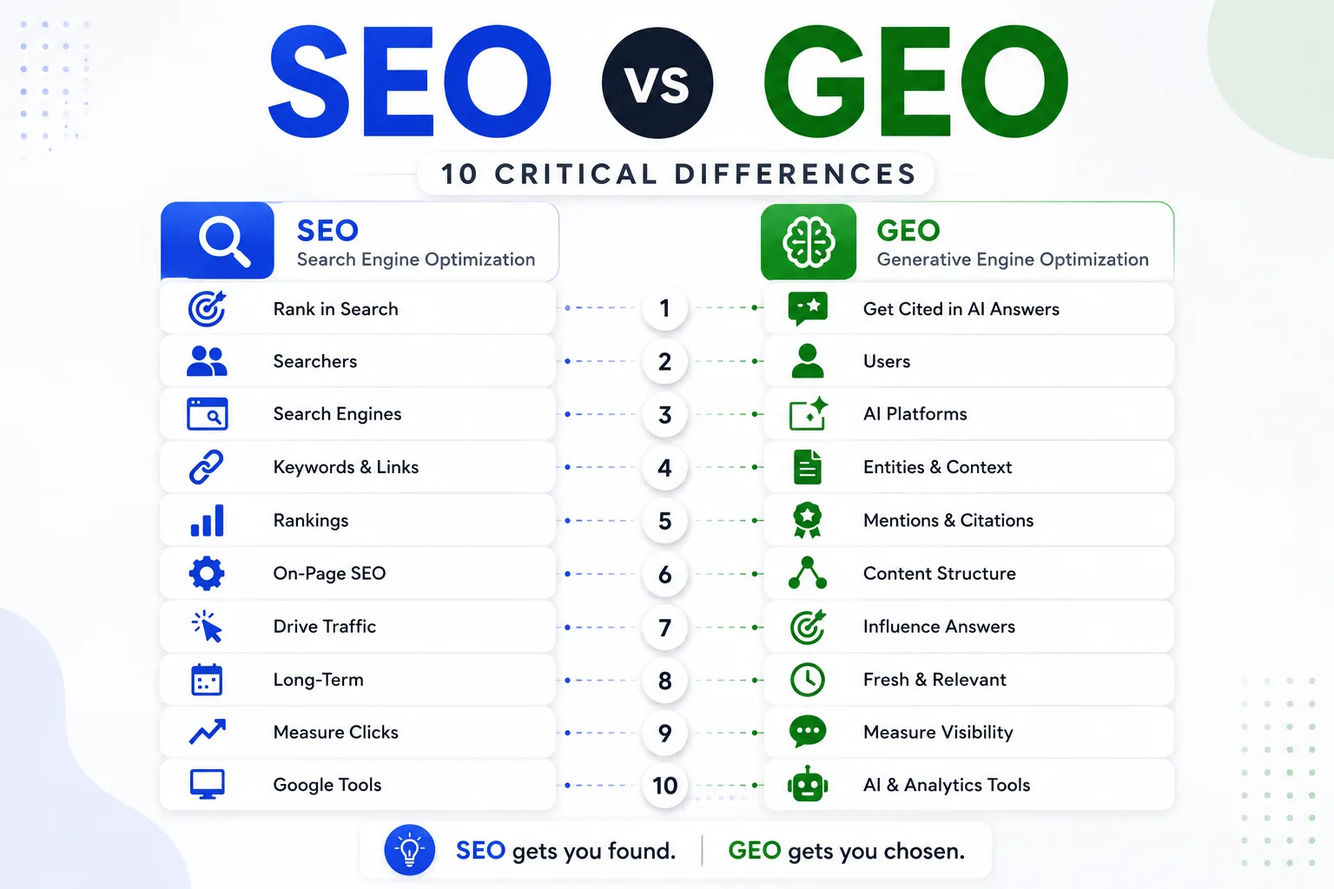
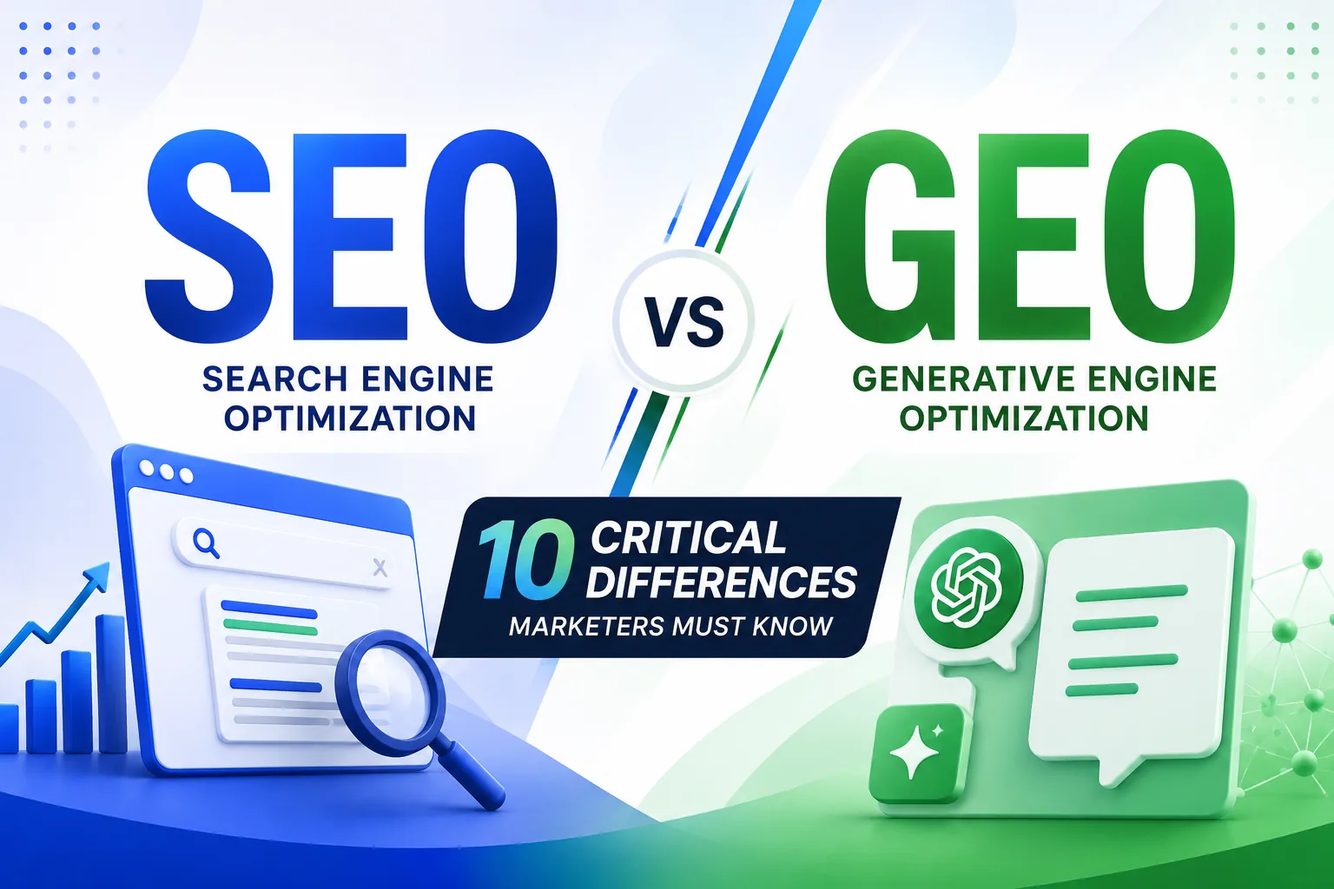
blog #16: swap SEO vs GEO cover with refreshed design + cache-bust
User provided a new cover artwork. Overwrote the existing WebP at the
same path (80766 -> 89176 bytes) and added ?v=2 to every reference
(blog page OG/Twitter/Article schema + hero img + index card) so
browsers, OG scrapers, and CDN edges fetch the new file.

diff --git a/site/blog/index.html b/site/blog/index.html
@@ -91,7 +91,7 @@
   </div>
 </section>
 
-<section><div class="container"><div class="card-grid"><a class="card" href="/blog/seo-vs-geo-differences/"><div class="thumb" style="background-image:url('/assets/Blogs/SEO%20vs%20GEO%2010%20Critical%20Differences.webp')"></div><div class="body"><span class="tag">SEO &amp; GEO</span><h3>SEO vs GEO: 10 Critical Differences Every Marketer Must Know</h3><p>SEO vs GEO: 10 critical differences every marketer must know. Learn when to use each strategy and how they work together.</p><div class="meta"><span>June 1, 2026</span><span class="dot"></span><span>11 min read</span></div></div></a><a class="card" href="/blog/meta-ads-not-converting-fix/"><div class="thumb" style="background-image:url('/assets/Blogs/Meta%20Ads%20Not%20Converting%209%20Hidden%20Reasons.webp')"></div><div class="body"><span class="tag">Meta Ads</span><h3>Meta Ads Not Converting? 9 Hidden Reasons Killing Your ROAS</h3><p>Meta ads not converting? Discover 9 hidden reasons killing your ROAS and exactly how to fix each one. Agency-tested solutions.</p><div class="meta"><span>June 1, 2026</span><span class="dot"></span><span>12 min read</span></div></div></a><a class="card" href="/blog/whatsapp-marketing-india-templates/"><div class="thumb" style="background-image:url('/assets/Blogs/WhatsApp%20Marketing%20India%208%20Templates%20That%20Convert.webp')"></div><div class="body"><span class="tag">WhatsApp Marketing</span><h3>WhatsApp Marketing India: 8 Proven Templates That Convert 40%+</h3><p>8 proven WhatsApp marketing campaign templates for India. 98% open rates, 45% conversion. Copy-paste templates inside.</p><div class="meta"><span>May 29, 2026</span><span class="dot"></span><span>12 min read</span></div></div></a><a class="card" href="/blog/performance-marketing-strategies-d2c/"><div class="thumb" style="background-image:url('/assets/Blogs/7%20Performance%20Marketing%20Strategies%20for%20D2C.webp')"></div><div class="body"><span class="tag">Performance Marketing</span><h3>7 Performance Marketing Strategies That 10X'd ROAS for Indian D2C Brands</h3><p>Proven performance marketing strategies used to 10X ROAS for 60+ D2C brands. Real frameworks from Mumbai's performance agency.</p><div class="meta"><span>May 29, 2026</span><span class="dot"></span><span>12 min read</span></div></div></a><a class="card" href="/blog/best-ai-marketing-tools-2026/"><div class="thumb" style="background-image:url('/assets/Blogs/11%20AI%20Marketing%20Tools%20That%20Replaced%20My%205L%20Agency%20Stack.webp')"></div><div class="body"><span class="tag">AI Marketing</span><h3>11 AI Marketing Tools That Replaced My ₹5L Agency Stack</h3><p>Discover 11 AI marketing tools that replaced a ₹5L agency stack. Pricing, ROI & real use cases from a performance agency.</p><div class="meta"><span>May 28, 2026</span><span class="dot"></span><span>13 min read</span></div></div></a><a class="card" href="/blog/generative-engine-optimization-tactics/"><div class="thumb" style="background-image:url('/assets/Blogs/Generative%20Engine%20Optimization.webp')"></div><div class="body"><span class="tag">AI Marketing</span><h3>Generative Engine Optimization: 9 Tactics to Rank in AI Search</h3><p>Master generative engine optimization with 9 proven tactics to rank in ChatGPT, Gemini &amp; Perplexity. Real examples inside.</p><div class="meta"><span>May 28, 2026</span><span class="dot"></span><span>12 min read</span></div></div></a><a class="card" href="/blog/how-to-run-facebook-ads-without-website-2026/"><div class="thumb" style="background-image:url('/assets/Blogs/How%20to%20Run%20Facebook%20Ads%20Without%20a%20Website.webp')"></div><div class="body"><span class="tag">Meta Ads</span><h3>Run Facebook Ads Without a Website: Step-by-Step Guide</h3><p>Learn how to run Facebook Ads without a website in 2026 — lead form ads, Messenger ads, and WhatsApp ads that generate high-quality leads directly inside Facebook. No landing page required.</p><div class="meta"><span>May 27, 2026</span><span class="dot"></span><span>9 min read</span></div></div></a><a class="card" href="/blog/keyword-strategy-google-ads-high-converting-keywords-2026/"><div class="thumb" style="background-image:url('/assets/Blogs/Keyword%20Strategy%20for%20Google%20Ads.webp')"></div><div class="body"><span class="tag">PPC</span><h3>How to Build a High-Converting Google Ads Keyword Strategy</h3><p>Learn how to build a winning keyword strategy for Google Ads in 2026 — search intent, long-tail keywords, match types, negative keywords, and the best tools to find high-converting keywords that reduce cost per lead.</p><div class="meta"><span>May 27, 2026</span><span class="dot"></span><span>10 min read</span></div></div></a><a class="card" href="/blog/turn-social-media-followers-into-leads-2026/"><div class="thumb" style="background-image:url('/assets/Blogs/Turn%20Social%20Media%20Followers%20into%20High-Quality%20Leads%202026.webp')"></div><div class="body"><span class="tag">Social Media Marketing</span><h3>Turn Social Media Followers into High-Quality Leads</h3><p>Learn how to convert social media followers into high-quality leads in 2026 — proven strategies for social media lead generation, DM funnels, lead magnets, and content that converts.</p><div class="meta"><span>May 27, 2026</span><span class="dot"></span><span>10 min read</span></div></div></a><a class="card" href="/blog/google-ads-clicks-no-conversions-7-fixes/"><div class="thumb" style="background-image:url('/assets/Blogs/Google%20Ads%20Clicks%20but%20No%20Conversions%207%20Fixes.webp?v=2')"></div><div class="body"><span class="tag">PPC</span><h3>Google Ads: Clicks but No Conversions? 7 Fixes That Work</h3><p>Discover why your Google Ads are getting clicks but no conversions — and 7 proven fixes to improve your Google Ads conversion rate, cut wasted spend, and generate more leads.</p><div class="meta"><span>May 26, 2026</span><span class="dot"></span><span>9 min read</span></div></div></a><a class="card" href="/blog/ai-lead-generation-marketing-automation/"><div class="thumb" style="background-image:url('/assets/Blogs/How%20to%20Use%20AI%20for%20Lead%20Generation%20and%20Marketing%20Automation.webp')"></div><div class="body"><span class="tag">AI Marketing</span><h3>How to Use AI for Lead Generation and Marketing Automation</h3><p>Learn how AI lead generation and marketing automation work in 2026 — predictive targeting, chatbots, CRM automation, email automation, and the best AI tools to grow faster.</p><div class="meta"><span>May 25, 2026</span><span class="dot"></span><span>10 min read</span></div></div></a><a class="card" href="/blog/how-ai-is-transforming-digital-marketing-2026/"><div class="thumb" style="background-image:url('/assets/Blogs/How%20AI%20Is%20Transforming%20Digital%20Marketing%20in%202026.webp')"></div><div class="body"><span class="tag">AI Marketing</span><h3>How AI Is Transforming Digital Marketing in 2026 (Tools, Trends &amp; Strategies)</h3><p>Discover how AI in digital marketing is reshaping strategies in 2026 — from marketing automation and chatbots to AI content tools, personalization, and AI-driven campaigns.</p><div class="meta"><span>May 25, 2026</span><span class="dot"></span><span>10 min read</span></div></div></a><a class="card" href="/blog/performance-marketing-generate-leads-increase-roi/"><div class="thumb" style="background-image:url('/assets/Blogs/How%20to%20Use%20Performance%20Marketing%20to%20Generate%20Leads%20and%20Increase%20ROI.webp')"></div><div class="body"><span class="tag">Performance Marketing</span><h3>How to Use Performance Marketing to Generate Leads and Increase ROI</h3><p>Learn how to use performance marketing to generate high-quality leads and increase ROI with proven strategies, channels, and optimization tips.</p><div class="meta"><span>May 25, 2026</span><span class="dot"></span><span>9 min read</span></div></div></a><a class="card" href="/blog/google-io-2026-what-every-marketer-needs-to-act-on-now/"><div class="thumb" style="background-image:url('/assets/Blogs/Google%20IO%202026%20What%20Every%20Marketer%20Needs%20to%20Act%20On%20Now.webp')"></div><div class="body"><span class="tag">AI Marketing</span><h3>Google I/O 2026: What Every Marketer Needs to Act On Now</h3><p>Google I/O 2026 changed search, video, e-commerce, and content marketing overnight. Here is what was announced and the exact actions marketers need to take.</p><div class="meta"><span>May 21, 2026</span><span class="dot"></span><span>7 min read</span></div></div></a><a class="card" href="/blog/seo-for-small-businesses-2026-step-by-step-guide/"><div class="thumb" style="background-image:url('/assets/Blogs/SEO%20for%20Small%20Businesses%20in%202026.webp')"></div><div class="body"><span class="tag">Search Engine Optimization</span><h3>SEO for Small Businesses in 2026: Step-by-Step Guide</h3><p>Learn the complete SEO strategy for small businesses in 2026 — from keyword research to local SEO, technical SEO, and content marketing.</p><div class="meta"><span>May 21, 2026</span><span class="dot"></span><span>9 min read</span></div></div></a><a class="card" href="/blog/why-website-not-generating-leads-10-fixes/"><div class="thumb" style="background-image:url('/assets/Blogs/Why%20Your%20Website%20Is%20Not%20Generating%20Leads.webp')"></div><div class="body"><span class="tag">Conversion Rate Optimization</span><h3>Why Your Website Is Not Generating Leads (10 Fixes That Work)</h3><p>Struggling to get leads from your website? Discover 10 proven fixes to improve conversions, generate leads, and grow your business fast.</p><div class="meta"><span>May 21, 2026</span><span class="dot"></span><span>8 min read</span></div></div></a><a class="card" href="/blog/how-performance-marketing-agencies-deliver-measurable-roi/"><div class="thumb" style="background-image:url('/assets/Blogs/How%20Performance%20Marketing%20Agencies%20Deliver%20Measurable%20ROI.webp')"></div><div class="body"><span class="tag">Performance Marketing</span><h3>How Performance Marketing Agencies Deliver Measurable ROI</h3><p>How performance marketing agencies turn ad spend into measurable ROI through data-driven targeting, multi-channel strategy, and conversion rate optimization.</p><div class="meta"><span>April 6, 2026</span><span class="dot"></span><span>8 min read</span></div></div></a><a class="card" href="/blog/local-seo-competitor-research-win-google-map-pack-in-2026/"><div class="thumb" style="background-image:url('/assets/Blogs/Local%20SEO%20Competitor%20Research%20Win%20Google%20Map%20Pack%20in%202026.webp')"></div><div class="body"><span class="tag">Search Engine Optimization</span><h3>Local SEO Competitor Research: Win Google Map Pack in 2026</h3><p>A structured framework for local SEO competitor research that helps businesses analyze map pack rivals, citations, reviews, and content to win Google's top three positions.</p><div class="meta"><span>February 26, 2026</span><span class="dot"></span><span>9 min read</span></div></div></a><a class="card" href="/blog/the-future-of-seo-competition-predictions-what-to-prepare-for/"><div class="thumb" style="background-image:url('/assets/Blogs/The%20Future%20of%20SEO%20Competition%20Predictions%20%26%20What%20to%20Prepare%20For.webp')"></div><div class="body"><span class="tag">Search Engine Optimization</span><h3>The Future of SEO Competition: Predictions & What to Prepare For</h3><p>How AI-driven search, zero-click results, and Search Everywhere Optimization are reshaping SEO competition, plus the strategies brands need to stay visible.</p><div class="meta"><span>February 19, 2026</span><span class="dot"></span><span>11 min read</span></div></div></a><a class="card" href="/blog/what-is-generative-ai-seo/"><div class="thumb" style="background-image:url('/assets/Blogs/What%20Is%20Generative%20AI%20SEO.webp')"></div><div class="body"><span class="tag">Search Engine Optimization</span><h3>What Is Generative AI SEO?</h3><p>How Generative AI SEO blends AI tools with traditional SEO workflows to power keyword research, content creation, and ongoing optimization without losing human strategy.</p><div class="meta"><span>February 3, 2026</span><span class="dot"></span><span>10 min read</span></div></div></a><a class="card" href="/blog/local-seo-checklist-for-2026/"><div class="thumb" style="background-image:url('/assets/Blogs/Local%20SEO%20Checklist%20for%202026.webp')"></div><div class="body"><span class="tag">Search Engine Optimization</span><h3>Local SEO Checklist for 2026</h3><p>Local search visibility in 2025 depends on executing the right priorities consistently rather than chasing every possible tactic.</p><div class="meta"><span>January 15, 2026</span><span class="dot"></span><span>9 min read</span></div></div></a><a class="card" href="/blog/top-importance-of-a-website-for-your-business/"><div class="thumb" style="background-image:url('/assets/Blogs/Top%20Importance%20of%20a%20Website%20for%20Your%20Business.webp')"></div><div class="body"><span class="tag">Digital Marketing</span><h3>Top Importance of a Website for Your Business</h3><p>Nineteen reasons why a professional website is foundational for businesses in 2026, from credibility and 24/7 sales to data, partnerships, and long-term growth.</p><div class="meta"><span>January 6, 2026</span><span class="dot"></span><span>7 min read</span></div></div></a><a class="card" href="/blog/top-5-benefits-of-a-multi-channel-marketing-campaign/"><div class="thumb" style="background-image:url('/assets/Blogs/Top%205%20Benefits%20of%20a%20Multi-Channel%20Marketing%20Campaign.webp')"></div><div class="body"><span class="tag">Performance Marketing</span><h3>Top 5 Benefits of a Multi-Channel Marketing Campaign</h3><p>Discover the top 5 benefits of multi-channel marketing campaigns: increased reach, improved customer experience, higher engagement rates, better data insights, and enhanced brand recognition.</p><div class="meta"><span>December 15, 2025</span><span class="dot"></span><span>6 min read</span></div></div></a><a class="card" href="/blog/top-12-advantages-of-search-engine-marketing/"><div class="thumb" style="background-image:url('/assets/Blogs/Top%2012%20Advantages%20of%20Search%20Engine%20Marketing.webp')"></div><div class="body"><span class="tag">SEM</span><h3>Top 12 Advantages of Search Engine Marketing</h3><p>Discover the top 12 advantages of Search Engine Marketing including accurate targeting, instant visibility, measurable ROI, and rapid results for business growth.</p><div class="meta"><span>October 28, 2025</span><span class="dot"></span><span>10 min read</span></div></div></a><a class="card" href="/blog/how-to-build-a-strong-digital-presence-for-your-brand/"><div class="thumb" style="background-image:url('/assets/Blogs/How%20to%20Build%20a%20Strong%20Digital%20Presence%20for%20Your%20Brand%3F.webp')"></div><div class="body"><span class="tag">Digital Marketing</span><h3>How to Build a Strong Digital Presence for Your Brand?</h3><p>Learn how to build a strong digital presence for your brand with 8 crucial steps including website optimization, content strategy, social media, and data analytics.</p><div class="meta"><span>October 6, 2025</span><span class="dot"></span><span>6 min read</span></div></div></a><a class="card" href="/blog/why-local-seo-matters-more-than-ever-in-2025/"><div class="thumb" style="background-image:url('/assets/Blogs/Why%20Local%20SEO%20Matters%20More%20Than%20Ever%20in%202025%3F.webp')"></div><div class="body"><span class="tag">Search Engine Optimization</span><h3>Why Local SEO Matters More Than Ever in 2025?</h3><p>Local SEO in 2025 is essential for business success. Learn why nearly 46% of Google searches have local intent and how to optimize your business for local customers.</p><div class="meta"><span>September 25, 2025</span><span class="dot"></span><span>7 min read</span></div></div></a><a class="card" href="/blog/how-to-integrate-chatgpt-with-your-paid-campaigns-for-better-ux/"><div class="thumb" style="background-image:url('/assets/Blogs/How%20to%20Integrate%20ChatGPT%20with%20Your%20Paid%20Campaigns%20for%20Better%20UX.webp')"></div><div class="body"><span class="tag">Performance Marketing</span><h3>How to Integrate ChatGPT with Your Paid Campaigns for Better UX</h3><p>Learn how to integrate ChatGPT with paid campaigns to enhance user experience, create conversational ads, and boost ROAS with AI-powered ad copy generation.</p><div class="meta"><span>August 1, 2025</span><span class="dot"></span><span>6 min read</span></div></div></a><a class="card" href="/blog/optimize-for-ai-geo-strategies-for-modern-brands/"><div class="thumb" style="background-image:url('/assets/Blogs/Optimize%20for%20AI%20GEO%20Strategies%20in%202026.webp')"></div><div class="body"><span class="tag">AI-Powered Branding</span><h3>Optimize for AI: GEO Strategies in 2026</h3><p>Learn how GEO (Generative Engine Optimization) is reshaping SEO in 2026. Discover AI strategies for brands to optimize content for AI-powered search and stay competitive.</p><div class="meta"><span>July 10, 2025</span><span class="dot"></span><span>5 min read</span></div></div></a><a class="card" href="/blog/our-formula-for-foolproof-performance-marketing-wins/"><div class="thumb" style="background-image:url('/assets/Blogs/Our%20Formula%20for%20Foolproof%20Performance%20Marketing%20Wins.webp')"></div><div class="body"><span class="tag">Performance Marketing</span><h3>Our Formula for Foolproof Performance Marketing Wins</h3><p>Discover Digiveritaz's foolproof performance marketing formula emphasizing data-driven methodologies, precise targeting, multi-channel integration, and measurable ROI for digital success.</p><div class="meta"><span>July 2, 2025</span><span class="dot"></span><span>9 min read</span></div></div></a></div></div></section>
+<section><div class="container"><div class="card-grid"><a class="card" href="/blog/seo-vs-geo-differences/"><div class="thumb" style="background-image:url('/assets/Blogs/SEO%20vs%20GEO%2010%20Critical%20Differences.webp?v=2')"></div><div class="body"><span class="tag">SEO &amp; GEO</span><h3>SEO vs GEO: 10 Critical Differences Every Marketer Must Know</h3><p>SEO vs GEO: 10 critical differences every marketer must know. Learn when to use each strategy and how they work together.</p><div class="meta"><span>June 1, 2026</span><span class="dot"></span><span>11 min read</span></div></div></a><a class="card" href="/blog/meta-ads-not-converting-fix/"><div class="thumb" style="background-image:url('/assets/Blogs/Meta%20Ads%20Not%20Converting%209%20Hidden%20Reasons.webp')"></div><div class="body"><span class="tag">Meta Ads</span><h3>Meta Ads Not Converting? 9 Hidden Reasons Killing Your ROAS</h3><p>Meta ads not converting? Discover 9 hidden reasons killing your ROAS and exactly how to fix each one. Agency-tested solutions.</p><div class="meta"><span>June 1, 2026</span><span class="dot"></span><span>12 min read</span></div></div></a><a class="card" href="/blog/whatsapp-marketing-india-templates/"><div class="thumb" style="background-image:url('/assets/Blogs/WhatsApp%20Marketing%20India%208%20Templates%20That%20Convert.webp')"></div><div class="body"><span class="tag">WhatsApp Marketing</span><h3>WhatsApp Marketing India: 8 Proven Templates That Convert 40%+</h3><p>8 proven WhatsApp marketing campaign templates for India. 98% open rates, 45% conversion. Copy-paste templates inside.</p><div class="meta"><span>May 29, 2026</span><span class="dot"></span><span>12 min read</span></div></div></a><a class="card" href="/blog/performance-marketing-strategies-d2c/"><div class="thumb" style="background-image:url('/assets/Blogs/7%20Performance%20Marketing%20Strategies%20for%20D2C.webp')"></div><div class="body"><span class="tag">Performance Marketing</span><h3>7 Performance Marketing Strategies That 10X'd ROAS for Indian D2C Brands</h3><p>Proven performance marketing strategies used to 10X ROAS for 60+ D2C brands. Real frameworks from Mumbai's performance agency.</p><div class="meta"><span>May 29, 2026</span><span class="dot"></span><span>12 min read</span></div></div></a><a class="card" href="/blog/best-ai-marketing-tools-2026/"><div class="thumb" style="background-image:url('/assets/Blogs/11%20AI%20Marketing%20Tools%20That%20Replaced%20My%205L%20Agency%20Stack.webp')"></div><div class="body"><span class="tag">AI Marketing</span><h3>11 AI Marketing Tools That Replaced My ₹5L Agency Stack</h3><p>Discover 11 AI marketing tools that replaced a ₹5L agency stack. Pricing, ROI & real use cases from a performance agency.</p><div class="meta"><span>May 28, 2026</span><span class="dot"></span><span>13 min read</span></div></div></a><a class="card" href="/blog/generative-engine-optimization-tactics/"><div class="thumb" style="background-image:url('/assets/Blogs/Generative%20Engine%20Optimization.webp')"></div><div class="body"><span class="tag">AI Marketing</span><h3>Generative Engine Optimization: 9 Tactics to Rank in AI Search</h3><p>Master generative engine optimization with 9 proven tactics to rank in ChatGPT, Gemini &amp; Perplexity. Real examples inside.</p><div class="meta"><span>May 28, 2026</span><span class="dot"></span><span>12 min read</span></div></div></a><a class="card" href="/blog/how-to-run-facebook-ads-without-website-2026/"><div class="thumb" style="background-image:url('/assets/Blogs/How%20to%20Run%20Facebook%20Ads%20Without%20a%20Website.webp')"></div><div class="body"><span class="tag">Meta Ads</span><h3>Run Facebook Ads Without a Website: Step-by-Step Guide</h3><p>Learn how to run Facebook Ads without a website in 2026 — lead form ads, Messenger ads, and WhatsApp ads that generate high-quality leads directly inside Facebook. No landing page required.</p><div class="meta"><span>May 27, 2026</span><span class="dot"></span><span>9 min read</span></div></div></a><a class="card" href="/blog/keyword-strategy-google-ads-high-converting-keywords-2026/"><div class="thumb" style="background-image:url('/assets/Blogs/Keyword%20Strategy%20for%20Google%20Ads.webp')"></div><div class="body"><span class="tag">PPC</span><h3>How to Build a High-Converting Google Ads Keyword Strategy</h3><p>Learn how to build a winning keyword strategy for Google Ads in 2026 — search intent, long-tail keywords, match types, negative keywords, and the best tools to find high-converting keywords that reduce cost per lead.</p><div class="meta"><span>May 27, 2026</span><span class="dot"></span><span>10 min read</span></div></div></a><a class="card" href="/blog/turn-social-media-followers-into-leads-2026/"><div class="thumb" style="background-image:url('/assets/Blogs/Turn%20Social%20Media%20Followers%20into%20High-Quality%20Leads%202026.webp')"></div><div class="body"><span class="tag">Social Media Marketing</span><h3>Turn Social Media Followers into High-Quality Leads</h3><p>Learn how to convert social media followers into high-quality leads in 2026 — proven strategies for social media lead generation, DM funnels, lead magnets, and content that converts.</p><div class="meta"><span>May 27, 2026</span><span class="dot"></span><span>10 min read</span></div></div></a><a class="card" href="/blog/google-ads-clicks-no-conversions-7-fixes/"><div class="thumb" style="background-image:url('/assets/Blogs/Google%20Ads%20Clicks%20but%20No%20Conversions%207%20Fixes.webp?v=2')"></div><div class="body"><span class="tag">PPC</span><h3>Google Ads: Clicks but No Conversions? 7 Fixes That Work</h3><p>Discover why your Google Ads are getting clicks but no conversions — and 7 proven fixes to improve your Google Ads conversion rate, cut wasted spend, and generate more leads.</p><div class="meta"><span>May 26, 2026</span><span class="dot"></span><span>9 min read</span></div></div></a><a class="card" href="/blog/ai-lead-generation-marketing-automation/"><div class="thumb" style="background-image:url('/assets/Blogs/How%20to%20Use%20AI%20for%20Lead%20Generation%20and%20Marketing%20Automation.webp')"></div><div class="body"><span class="tag">AI Marketing</span><h3>How to Use AI for Lead Generation and Marketing Automation</h3><p>Learn how AI lead generation and marketing automation work in 2026 — predictive targeting, chatbots, CRM automation, email automation, and the best AI tools to grow faster.</p><div class="meta"><span>May 25, 2026</span><span class="dot"></span><span>10 min read</span></div></div></a><a class="card" href="/blog/how-ai-is-transforming-digital-marketing-2026/"><div class="thumb" style="background-image:url('/assets/Blogs/How%20AI%20Is%20Transforming%20Digital%20Marketing%20in%202026.webp')"></div><div class="body"><span class="tag">AI Marketing</span><h3>How AI Is Transforming Digital Marketing in 2026 (Tools, Trends &amp; Strategies)</h3><p>Discover how AI in digital marketing is reshaping strategies in 2026 — from marketing automation and chatbots to AI content tools, personalization, and AI-driven campaigns.</p><div class="meta"><span>May 25, 2026</span><span class="dot"></span><span>10 min read</span></div></div></a><a class="card" href="/blog/performance-marketing-generate-leads-increase-roi/"><div class="thumb" style="background-image:url('/assets/Blogs/How%20to%20Use%20Performance%20Marketing%20to%20Generate%20Leads%20and%20Increase%20ROI.webp')"></div><div class="body"><span class="tag">Performance Marketing</span><h3>How to Use Performance Marketing to Generate Leads and Increase ROI</h3><p>Learn how to use performance marketing to generate high-quality leads and increase ROI with proven strategies, channels, and optimization tips.</p><div class="meta"><span>May 25, 2026</span><span class="dot"></span><span>9 min read</span></div></div></a><a class="card" href="/blog/google-io-2026-what-every-marketer-needs-to-act-on-now/"><div class="thumb" style="background-image:url('/assets/Blogs/Google%20IO%202026%20What%20Every%20Marketer%20Needs%20to%20Act%20On%20Now.webp')"></div><div class="body"><span class="tag">AI Marketing</span><h3>Google I/O 2026: What Every Marketer Needs to Act On Now</h3><p>Google I/O 2026 changed search, video, e-commerce, and content marketing overnight. Here is what was announced and the exact actions marketers need to take.</p><div class="meta"><span>May 21, 2026</span><span class="dot"></span><span>7 min read</span></div></div></a><a class="card" href="/blog/seo-for-small-businesses-2026-step-by-step-guide/"><div class="thumb" style="background-image:url('/assets/Blogs/SEO%20for%20Small%20Businesses%20in%202026.webp')"></div><div class="body"><span class="tag">Search Engine Optimization</span><h3>SEO for Small Businesses in 2026: Step-by-Step Guide</h3><p>Learn the complete SEO strategy for small businesses in 2026 — from keyword research to local SEO, technical SEO, and content marketing.</p><div class="meta"><span>May 21, 2026</span><span class="dot"></span><span>9 min read</span></div></div></a><a class="card" href="/blog/why-website-not-generating-leads-10-fixes/"><div class="thumb" style="background-image:url('/assets/Blogs/Why%20Your%20Website%20Is%20Not%20Generating%20Leads.webp')"></div><div class="body"><span class="tag">Conversion Rate Optimization</span><h3>Why Your Website Is Not Generating Leads (10 Fixes That Work)</h3><p>Struggling to get leads from your website? Discover 10 proven fixes to improve conversions, generate leads, and grow your business fast.</p><div class="meta"><span>May 21, 2026</span><span class="dot"></span><span>8 min read</span></div></div></a><a class="card" href="/blog/how-performance-marketing-agencies-deliver-measurable-roi/"><div class="thumb" style="background-image:url('/assets/Blogs/How%20Performance%20Marketing%20Agencies%20Deliver%20Measurable%20ROI.webp')"></div><div class="body"><span class="tag">Performance Marketing</span><h3>How Performance Marketing Agencies Deliver Measurable ROI</h3><p>How performance marketing agencies turn ad spend into measurable ROI through data-driven targeting, multi-channel strategy, and conversion rate optimization.</p><div class="meta"><span>April 6, 2026</span><span class="dot"></span><span>8 min read</span></div></div></a><a class="card" href="/blog/local-seo-competitor-research-win-google-map-pack-in-2026/"><div class="thumb" style="background-image:url('/assets/Blogs/Local%20SEO%20Competitor%20Research%20Win%20Google%20Map%20Pack%20in%202026.webp')"></div><div class="body"><span class="tag">Search Engine Optimization</span><h3>Local SEO Competitor Research: Win Google Map Pack in 2026</h3><p>A structured framework for local SEO competitor research that helps businesses analyze map pack rivals, citations, reviews, and content to win Google's top three positions.</p><div class="meta"><span>February 26, 2026</span><span class="dot"></span><span>9 min read</span></div></div></a><a class="card" href="/blog/the-future-of-seo-competition-predictions-what-to-prepare-for/"><div class="thumb" style="background-image:url('/assets/Blogs/The%20Future%20of%20SEO%20Competition%20Predictions%20%26%20What%20to%20Prepare%20For.webp')"></div><div class="body"><span class="tag">Search Engine Optimization</span><h3>The Future of SEO Competition: Predictions & What to Prepare For</h3><p>How AI-driven search, zero-click results, and Search Everywhere Optimization are reshaping SEO competition, plus the strategies brands need to stay visible.</p><div class="meta"><span>February 19, 2026</span><span class="dot"></span><span>11 min read</span></div></div></a><a class="card" href="/blog/what-is-generative-ai-seo/"><div class="thumb" style="background-image:url('/assets/Blogs/What%20Is%20Generative%20AI%20SEO.webp')"></div><div class="body"><span class="tag">Search Engine Optimization</span><h3>What Is Generative AI SEO?</h3><p>How Generative AI SEO blends AI tools with traditional SEO workflows to power keyword research, content creation, and ongoing optimization without losing human strategy.</p><div class="meta"><span>February 3, 2026</span><span class="dot"></span><span>10 min read</span></div></div></a><a class="card" href="/blog/local-seo-checklist-for-2026/"><div class="thumb" style="background-image:url('/assets/Blogs/Local%20SEO%20Checklist%20for%202026.webp')"></div><div class="body"><span class="tag">Search Engine Optimization</span><h3>Local SEO Checklist for 2026</h3><p>Local search visibility in 2025 depends on executing the right priorities consistently rather than chasing every possible tactic.</p><div class="meta"><span>January 15, 2026</span><span class="dot"></span><span>9 min read</span></div></div></a><a class="card" href="/blog/top-importance-of-a-website-for-your-business/"><div class="thumb" style="background-image:url('/assets/Blogs/Top%20Importance%20of%20a%20Website%20for%20Your%20Business.webp')"></div><div class="body"><span class="tag">Digital Marketing</span><h3>Top Importance of a Website for Your Business</h3><p>Nineteen reasons why a professional website is foundational for businesses in 2026, from credibility and 24/7 sales to data, partnerships, and long-term growth.</p><div class="meta"><span>January 6, 2026</span><span class="dot"></span><span>7 min read</span></div></div></a><a class="card" href="/blog/top-5-benefits-of-a-multi-channel-marketing-campaign/"><div class="thumb" style="background-image:url('/assets/Blogs/Top%205%20Benefits%20of%20a%20Multi-Channel%20Marketing%20Campaign.webp')"></div><div class="body"><span class="tag">Performance Marketing</span><h3>Top 5 Benefits of a Multi-Channel Marketing Campaign</h3><p>Discover the top 5 benefits of multi-channel marketing campaigns: increased reach, improved customer experience, higher engagement rates, better data insights, and enhanced brand recognition.</p><div class="meta"><span>December 15, 2025</span><span class="dot"></span><span>6 min read</span></div></div></a><a class="card" href="/blog/top-12-advantages-of-search-engine-marketing/"><div class="thumb" style="background-image:url('/assets/Blogs/Top%2012%20Advantages%20of%20Search%20Engine%20Marketing.webp')"></div><div class="body"><span class="tag">SEM</span><h3>Top 12 Advantages of Search Engine Marketing</h3><p>Discover the top 12 advantages of Search Engine Marketing including accurate targeting, instant visibility, measurable ROI, and rapid results for business growth.</p><div class="meta"><span>October 28, 2025</span><span class="dot"></span><span>10 min read</span></div></div></a><a class="card" href="/blog/how-to-build-a-strong-digital-presence-for-your-brand/"><div class="thumb" style="background-image:url('/assets/Blogs/How%20to%20Build%20a%20Strong%20Digital%20Presence%20for%20Your%20Brand%3F.webp')"></div><div class="body"><span class="tag">Digital Marketing</span><h3>How to Build a Strong Digital Presence for Your Brand?</h3><p>Learn how to build a strong digital presence for your brand with 8 crucial steps including website optimization, content strategy, social media, and data analytics.</p><div class="meta"><span>October 6, 2025</span><span class="dot"></span><span>6 min read</span></div></div></a><a class="card" href="/blog/why-local-seo-matters-more-than-ever-in-2025/"><div class="thumb" style="background-image:url('/assets/Blogs/Why%20Local%20SEO%20Matters%20More%20Than%20Ever%20in%202025%3F.webp')"></div><div class="body"><span class="tag">Search Engine Optimization</span><h3>Why Local SEO Matters More Than Ever in 2025?</h3><p>Local SEO in 2025 is essential for business success. Learn why nearly 46% of Google searches have local intent and how to optimize your business for local customers.</p><div class="meta"><span>September 25, 2025</span><span class="dot"></span><span>7 min read</span></div></div></a><a class="card" href="/blog/how-to-integrate-chatgpt-with-your-paid-campaigns-for-better-ux/"><div class="thumb" style="background-image:url('/assets/Blogs/How%20to%20Integrate%20ChatGPT%20with%20Your%20Paid%20Campaigns%20for%20Better%20UX.webp')"></div><div class="body"><span class="tag">Performance Marketing</span><h3>How to Integrate ChatGPT with Your Paid Campaigns for Better UX</h3><p>Learn how to integrate ChatGPT with paid campaigns to enhance user experience, create conversational ads, and boost ROAS with AI-powered ad copy generation.</p><div class="meta"><span>August 1, 2025</span><span class="dot"></span><span>6 min read</span></div></div></a><a class="card" href="/blog/optimize-for-ai-geo-strategies-for-modern-brands/"><div class="thumb" style="background-image:url('/assets/Blogs/Optimize%20for%20AI%20GEO%20Strategies%20in%202026.webp')"></div><div class="body"><span class="tag">AI-Powered Branding</span><h3>Optimize for AI: GEO Strategies in 2026</h3><p>Learn how GEO (Generative Engine Optimization) is reshaping SEO in 2026. Discover AI strategies for brands to optimize content for AI-powered search and stay competitive.</p><div class="meta"><span>July 10, 2025</span><span class="dot"></span><span>5 min read</span></div></div></a><a class="card" href="/blog/our-formula-for-foolproof-performance-marketing-wins/"><div class="thumb" style="background-image:url('/assets/Blogs/Our%20Formula%20for%20Foolproof%20Performance%20Marketing%20Wins.webp')"></div><div class="body"><span class="tag">Performance Marketing</span><h3>Our Formula for Foolproof Performance Marketing Wins</h3><p>Discover Digiveritaz's foolproof performance marketing formula emphasizing data-driven methodologies, precise targeting, multi-channel integration, and measurable ROI for digital success.</p><div class="meta"><span>July 2, 2025</span><span class="dot"></span><span>9 min read</span></div></div></a></div></div></section>
 
 </main>
 <footer class="site-footer" role="contentinfo">

diff --git a/site/blog/seo-vs-geo-differences.html b/site/blog/seo-vs-geo-differences.html
@@ -22,7 +22,7 @@
 <meta property="og:title" content="SEO vs GEO: 10 Differences for 2026">
 <meta property="og:description" content="SEO vs GEO: 10 critical differences every marketer must know. Learn when to use each strategy and how they work together.">
 <meta property="og:url" content="https://www.digiveritaz.com/blog/seo-vs-geo-differences/">
-<meta property="og:image" content="https://www.digiveritaz.com/assets/Blogs/SEO%20vs%20GEO%2010%20Critical%20Differences.webp">
+<meta property="og:image" content="https://www.digiveritaz.com/assets/Blogs/SEO%20vs%20GEO%2010%20Critical%20Differences.webp?v=2">
 <meta property="og:image:alt" content="SEO vs GEO — 10 critical differences across goal, channel, format, authority, behavior, technical, measurement, freshness, off-site and timeline">
 <meta property="og:locale" content="en_IN">
 
@@ -32,7 +32,7 @@
 <meta name="twitter:creator" content="@digiveritaz">
 <meta name="twitter:title" content="SEO vs GEO: 10 Differences for 2026">
 <meta name="twitter:description" content="SEO vs GEO: 10 critical differences every marketer must know. Learn when to use each strategy and how they work together.">
-<meta name="twitter:image" content="https://www.digiveritaz.com/assets/Blogs/SEO%20vs%20GEO%2010%20Critical%20Differences.webp">
+<meta name="twitter:image" content="https://www.digiveritaz.com/assets/Blogs/SEO%20vs%20GEO%2010%20Critical%20Differences.webp?v=2">
 
 <!-- Favicon -->
 <link rel="icon" type="image/png" href="/assets/favicondv.png?v=2">
@@ -51,7 +51,7 @@
 <!-- Organization + Website + Breadcrumb + Article + FAQ schema -->
 <script type="application/ld+json">{"@context":"https://schema.org","@graph":[{"@type":["Organization","LocalBusiness","ProfessionalService"],"@id":"https://www.digiveritaz.com/#organization","name":"DigiVeritaz","alternateName":"DigiVeritaz Digital Marketing Agency","url":"https://www.digiveritaz.com","logo":"https://www.digiveritaz.com/assets/logo.webp","image":"https://www.digiveritaz.com/assets/logo.webp","description":"DigiVeritaz is a Mumbai-based digital marketing agency delivering SEO, PPC, performance marketing, paid social, e-commerce growth, WhatsApp marketing, branding and data strategy services across India and worldwide.","telephone":"+91-9956655662","email":"durvamukherjee@digiveritaz.com","priceRange":"$$","address":{"@type":"PostalAddress","streetAddress":"1st Floor, Ujagar Chambers, Bus Depot, Sion-Trombay Rd, opp. Deonar, Deonar, Chembur","addressLocality":"Mumbai","addressRegion":"Maharashtra","postalCode":"400088","addressCountry":"IN"},"geo":{"@type":"GeoCoordinates","latitude":19.0432,"longitude":72.9086},"areaServed":["IN","US","AE","GB","SG","AU","CA"],"sameAs":["https://www.facebook.com/digiveritaz","https://www.instagram.com/digiveritaz","https://www.linkedin.com/company/digiveritaz","https://twitter.com/digiveritaz"],"aggregateRating":{"@type":"AggregateRating","ratingValue":"4.9","reviewCount":"600","bestRating":"5","worstRating":"1"}},{"@type":"WebSite","@id":"https://www.digiveritaz.com/#website","url":"https://www.digiveritaz.com","name":"DigiVeritaz","publisher":{"@id":"https://www.digiveritaz.com/#organization"},"inLanguage":"en-IN"}]}</script>
 <script type="application/ld+json">{"@context":"https://schema.org","@type":"BreadcrumbList","itemListElement":[{"@type":"ListItem","position":1,"name":"Home","item":"https://www.digiveritaz.com/"},{"@type":"ListItem","position":2,"name":"Blog","item":"https://www.digiveritaz.com/blog/"},{"@type":"ListItem","position":3,"name":"SEO vs GEO: 10 Critical Differences Every Marketer Must Know","item":"https://www.digiveritaz.com/blog/seo-vs-geo-differences/"}]}</script>
-<script type="application/ld+json">{"@context":"https://schema.org","@type":"Article","mainEntityOfPage":{"@type":"WebPage","@id":"https://www.digiveritaz.com/blog/seo-vs-geo-differences/"},"headline":"SEO vs GEO: 10 Critical Differences Every Marketer Must Know Before 2027","description":"SEO vs GEO: 10 critical differences every marketer must know. Learn when to use each strategy and how they work together.","image":"https://www.digiveritaz.com/assets/Blogs/SEO%20vs%20GEO%2010%20Critical%20Differences.webp","datePublished":"2026-06-01","dateModified":"2026-06-01","author":{"@type":"Organization","name":"DigiVeritaz","url":"https://www.digiveritaz.com"},"publisher":{"@id":"https://www.digiveritaz.com/#organization"},"articleSection":"SEO &amp; GEO","inLanguage":"en-IN"}</script>
+<script type="application/ld+json">{"@context":"https://schema.org","@type":"Article","mainEntityOfPage":{"@type":"WebPage","@id":"https://www.digiveritaz.com/blog/seo-vs-geo-differences/"},"headline":"SEO vs GEO: 10 Critical Differences Every Marketer Must Know Before 2027","description":"SEO vs GEO: 10 critical differences every marketer must know. Learn when to use each strategy and how they work together.","image":"https://www.digiveritaz.com/assets/Blogs/SEO%20vs%20GEO%2010%20Critical%20Differences.webp?v=2","datePublished":"2026-06-01","dateModified":"2026-06-01","author":{"@type":"Organization","name":"DigiVeritaz","url":"https://www.digiveritaz.com"},"publisher":{"@id":"https://www.digiveritaz.com/#organization"},"articleSection":"SEO &amp; GEO","inLanguage":"en-IN"}</script>
 <script type="application/ld+json">{"@context":"https://schema.org","@type":"FAQPage","mainEntity":[{"@type":"Question","name":"Will GEO replace SEO completely?","acceptedAnswer":{"@type":"Answer","text":"No. GEO and SEO are complementary. 99% of AI Overview citations come from the organic top 10, meaning strong SEO is the prerequisite for effective GEO. Think of SEO as the foundation and GEO as the next layer of visibility."}},{"@type":"Question","name":"Which should I invest in first — SEO or GEO?","acceptedAnswer":{"@type":"Answer","text":"Start with SEO. You need a strong organic foundation before GEO can work effectively. Once you rank on page 1 for core keywords, add GEO optimizations (schema, entity signals, citation-worthy content) to capture AI visibility."}},{"@type":"Question","name":"Can I do GEO without doing SEO?","acceptedAnswer":{"@type":"Answer","text":"Technically yes, but it is far less effective. AI engines still rely heavily on traditional search indices. Without organic rankings, your content is less likely to enter the retrieval pool that AI engines draw from."}},{"@type":"Question","name":"How much does GEO cost compared to SEO?","acceptedAnswer":{"@type":"Answer","text":"GEO adds approximately 30–50% to existing SEO budgets. If you are spending ₹50,000/month on SEO, expect to add ₹15,000–₹25,000/month for GEO-specific optimizations (schema, entity building, AI monitoring tools, content structuring)."}},{"@type":"Question","name":"Is there a single tool that handles both SEO and GEO?","acceptedAnswer":{"@type":"Answer","text":"Semrush is moving closest to an integrated SEO + GEO platform with its AI Toolkit. However, most teams still use dedicated GEO monitoring tools (Profound, Otterly.AI) alongside traditional SEO tools (Ahrefs, Surfer SEO) for complete coverage."}}]}</script>
 <script>(function(){var t=localStorage.getItem('dv-theme');if(t==='dark')document.documentElement.setAttribute('data-theme','dark');})();</script>
 </head>
@@ -101,7 +101,7 @@
     </div>
   </div>
 </section>
-<section class="blog-feature"><div class="container"><img src="/assets/Blogs/SEO%20vs%20GEO%2010%20Critical%20Differences.webp" alt="SEO vs GEO — 10 critical differences across goal, channel, format, authority, behavior, technical, measurement, freshness, off-site and timeline — DigiVeritaz playbook" loading="eager" decoding="async"></div></section>
+<section class="blog-feature"><div class="container"><img src="/assets/Blogs/SEO%20vs%20GEO%2010%20Critical%20Differences.webp?v=2" alt="SEO vs GEO — 10 critical differences across goal, channel, format, authority, behavior, technical, measurement, freshness, off-site and timeline — DigiVeritaz playbook" loading="eager" decoding="async"></div></section>
 <section class="blog-article">
   <div class="container">
     <article class="prose">
